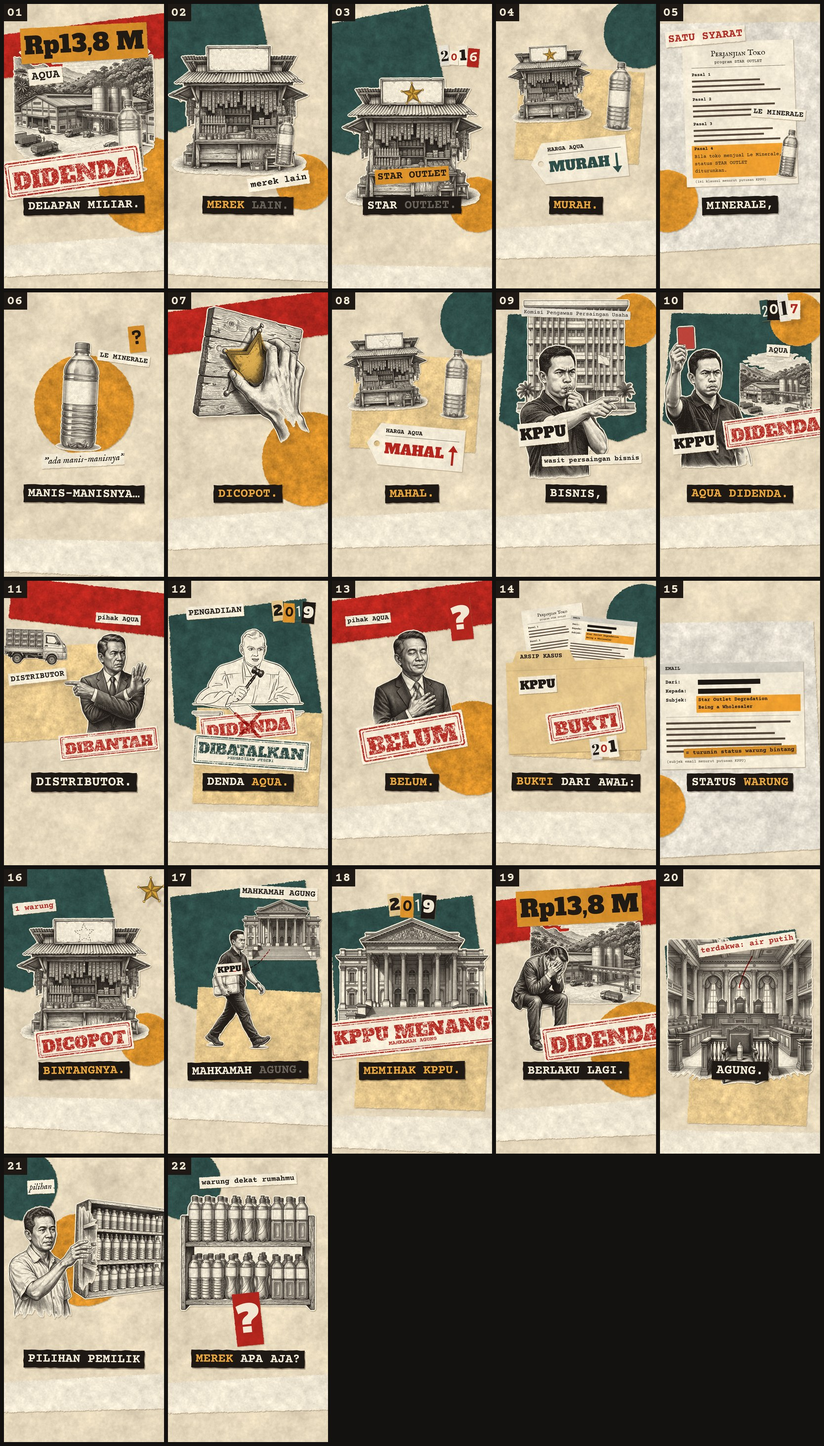
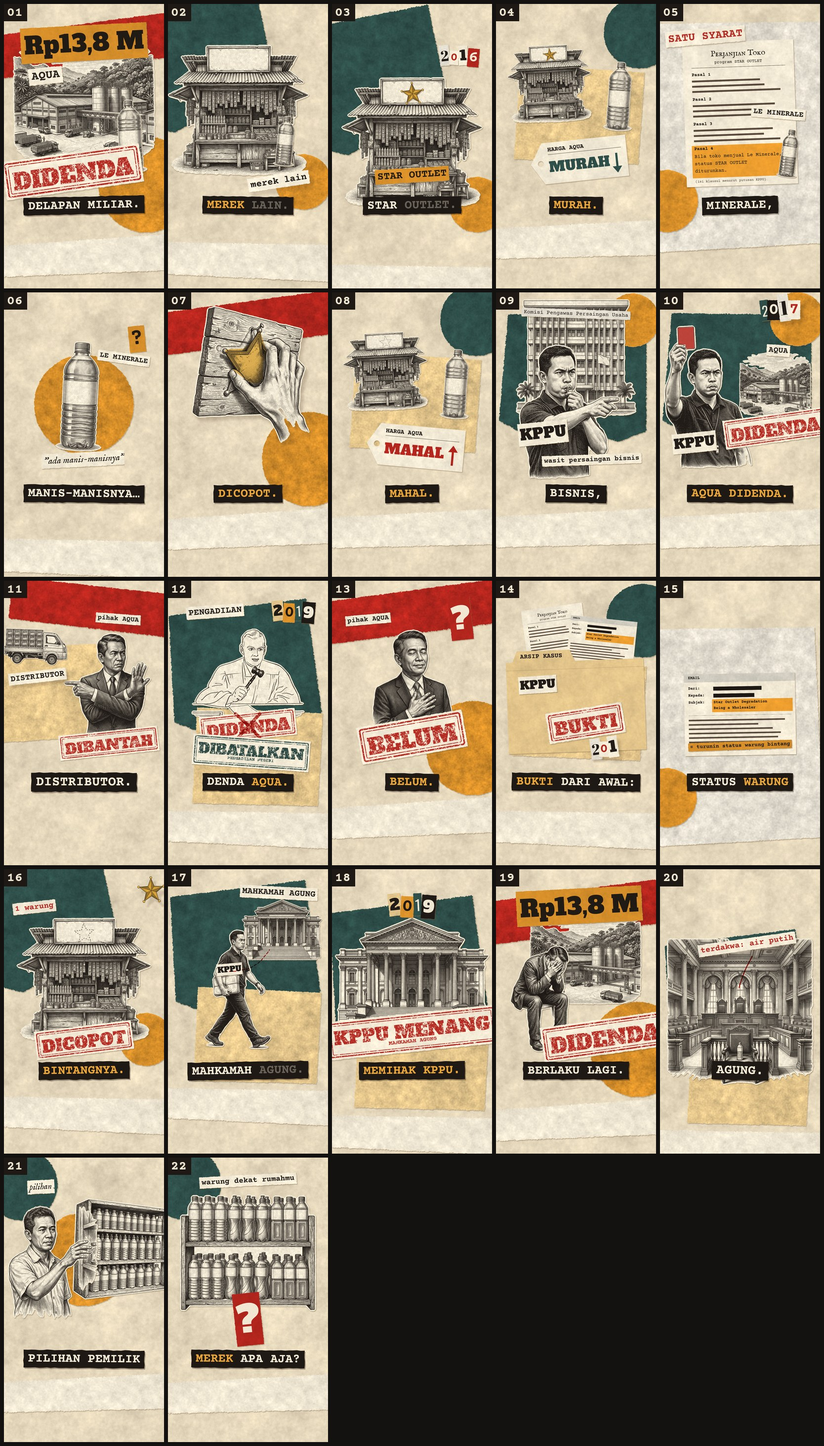
ARSIP #004 aqua: S15 email centred in frame
Claude-Session: https://claude.ai/code/session_01BfnoLVZri9uAPP3UdHeCe6

Changed region(s): [[0.7794, 0.4351, 0.9976, 0.5905]]

diff --git a/stories/aqua/kolase/film.js b/stories/aqua/kolase/film.js
@@ -170,10 +170,10 @@ const SHOTS = [
   // 15 · email berjudul Star Outlet Degradation, alias turunin status warung bintang.
   (u, T, d) => {
     const ts = at(14, 'star'), ta = at(14, 'alias');
-    camK(u, [[0, 540, 760, 0.98], [ts - 0.1, 540, 760, 1.0], [ts + 0.5, 610, 610, 1.45, 'io'], [ta, 610, 620, 1.48], [ta + 0.5, 580, 680, 1.25, 'io'], [d, 580, 680, 1.28]]);
+    camK(u, [[0, 540, 760, 0.98], [ts - 0.1, 540, 760, 1.0], [ts + 0.5, 580, 620, 1.4, 'io'], [ta, 580, 625, 1.42], [ta + 0.5, 540, 690, 1.15, 'io'], [d, 540, 690, 1.18]]);
     bg(SET.doc);
-    putK('email', slide(0, 0.3, 540, 640, -1, 0, 1100, 0, 0.6), u, 160);
-    putK('s_turunin', slap(ta + 0.05, 580, 830, -2), u, 161, { s: 0.75 });
+    putK('email', slide(0, 0.3, 540, 640, -1, 0, 1100, 0, 0.6), u, 160, { s: 0.84 });
+    putK('s_turunin', slap(ta + 0.05, 540, 820, -2), u, 161, { s: 0.75 });
   },
   // 16 · Dan satu warung beneran dicopot bintangnya.   the star flies off, the ghost of it stays on the board
   (u, T, d) => {
